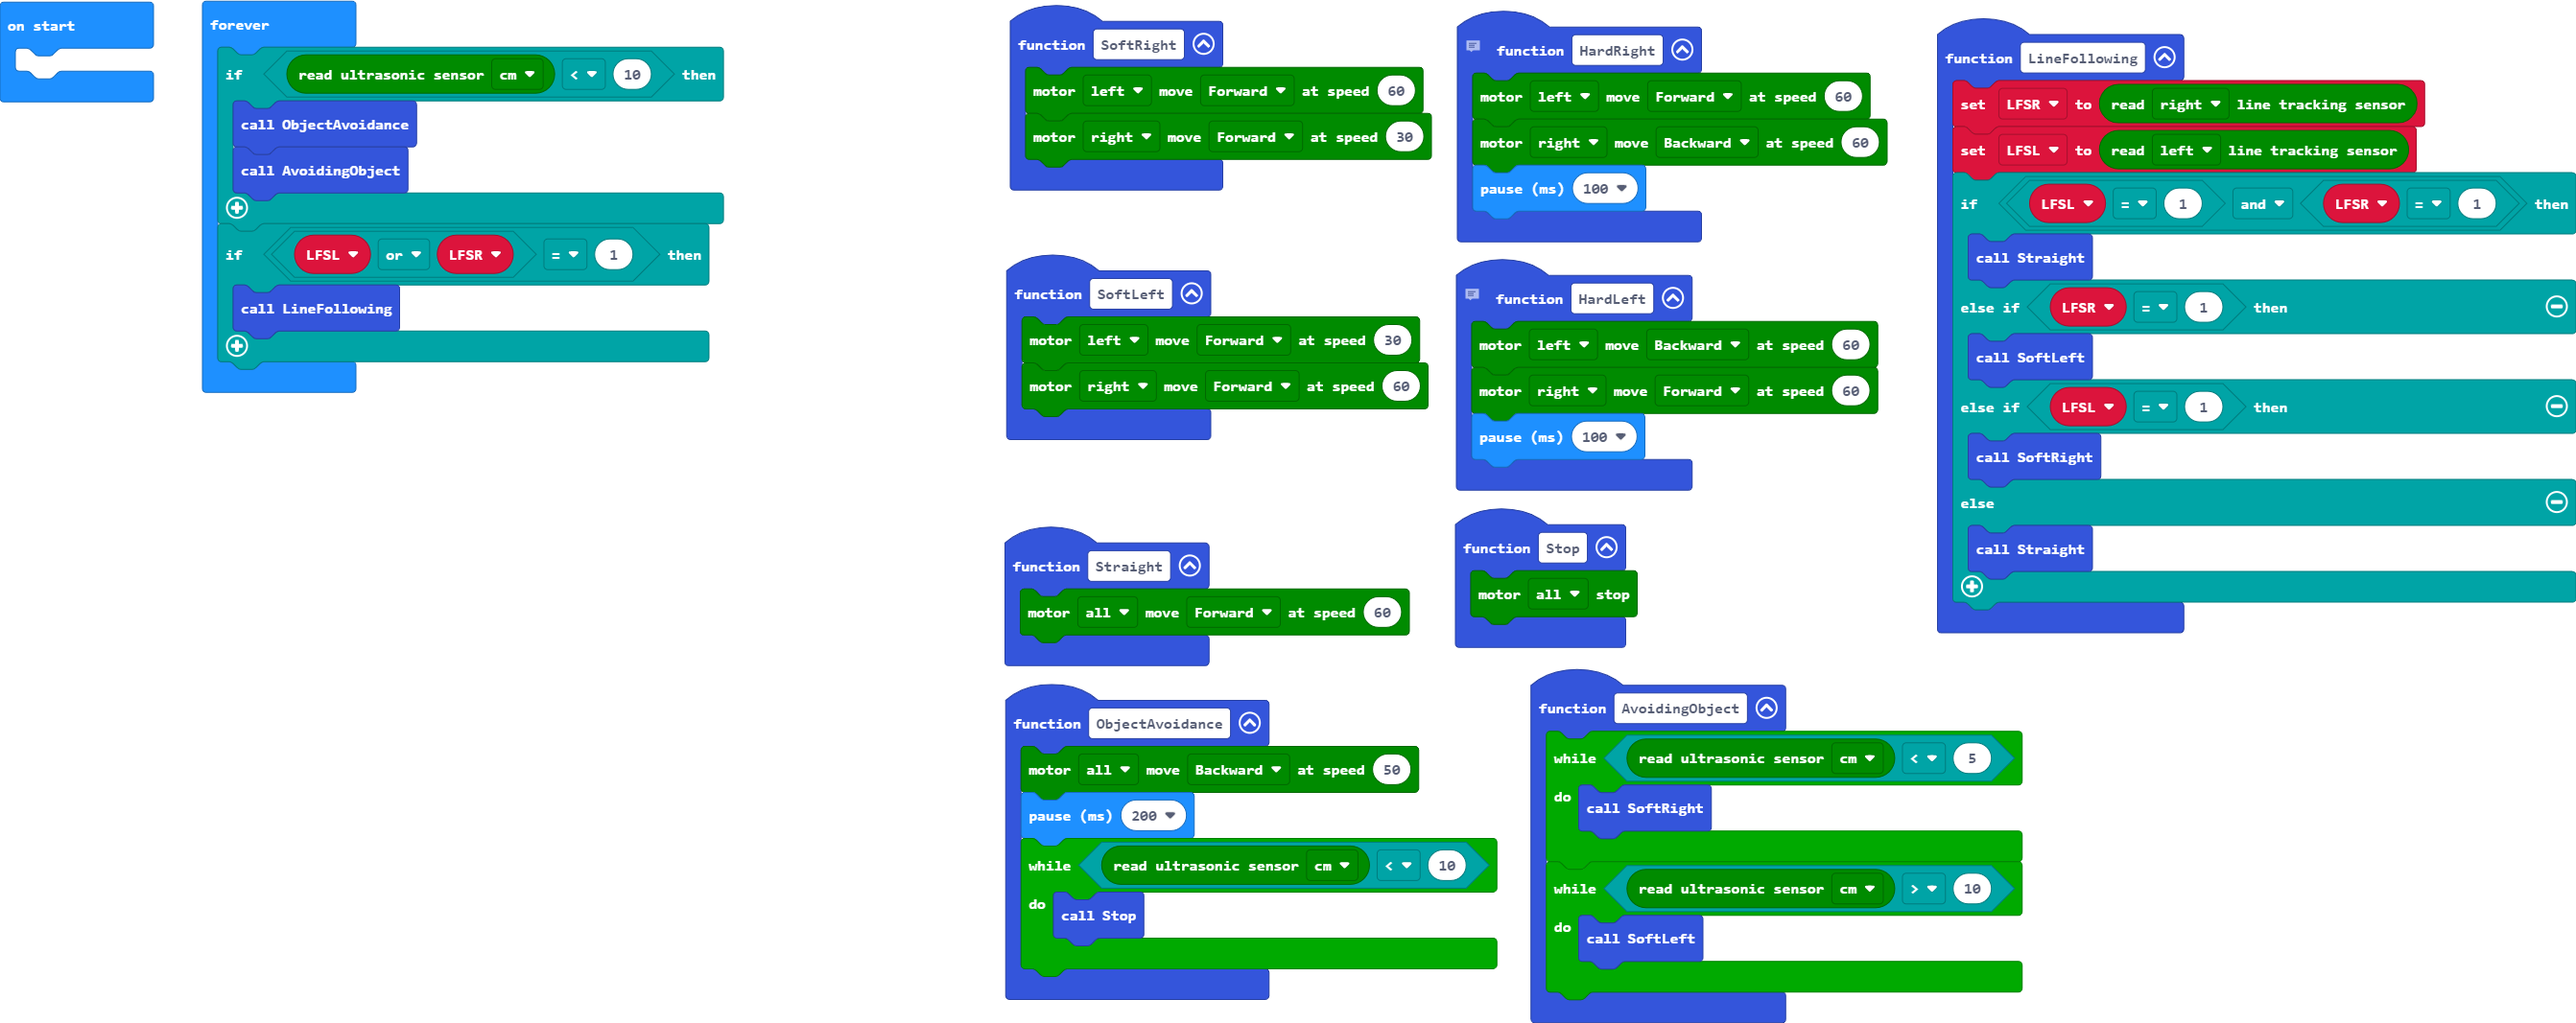
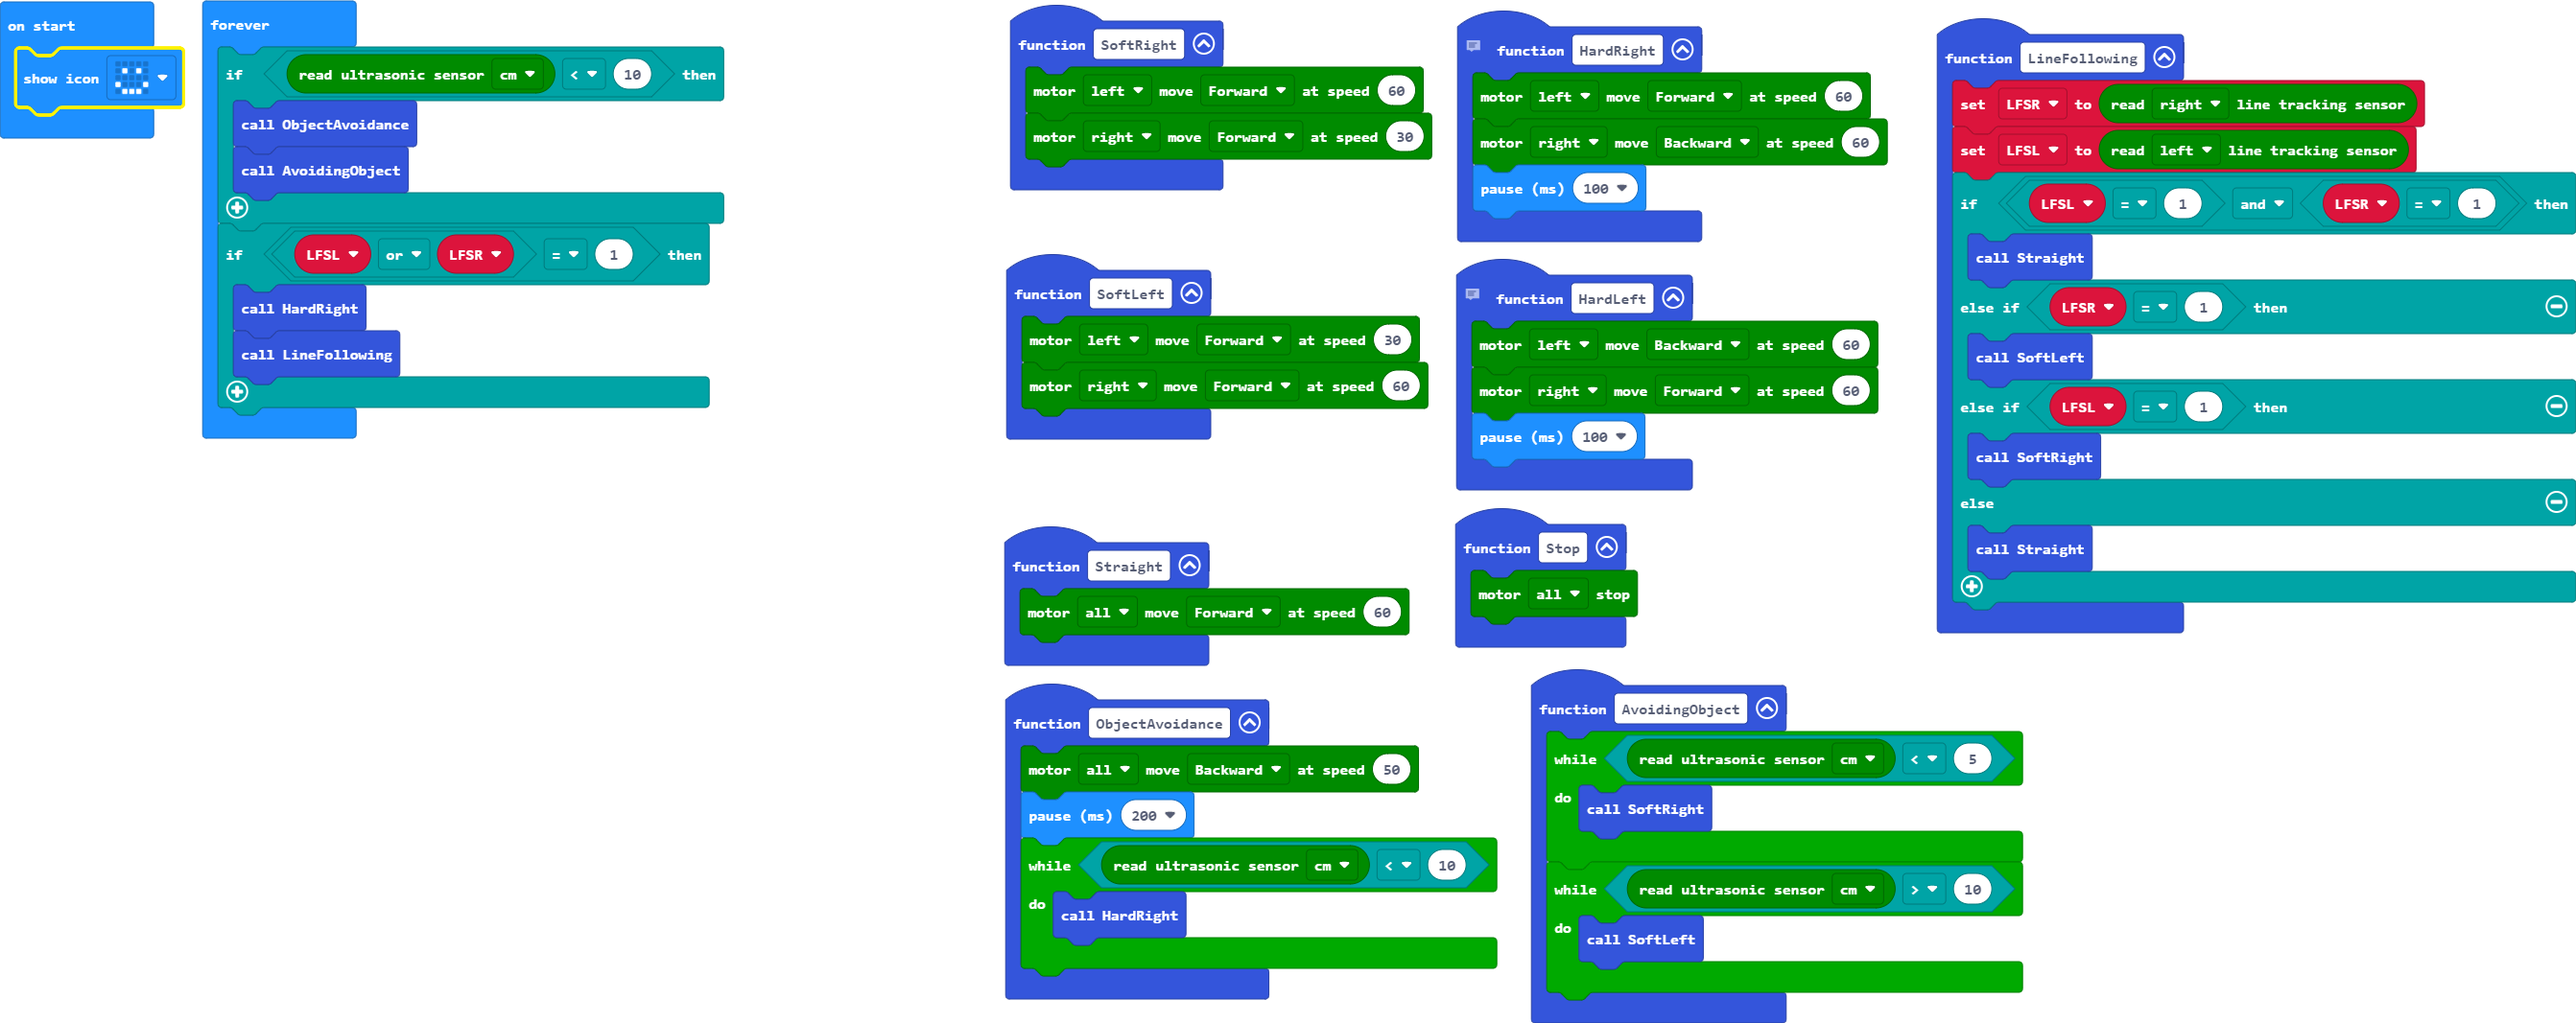
Update main.blocks, main.ts

diff --git a/main.ts b/main.ts
@@ -1,5 +1,3 @@
-let LFSR = 0
-let LFSL = 0
 // 90 Degree Turn
 function HardLeft () {
     maqueen.motorRun(maqueen.Motors.M1, maqueen.Dir.CCW, 60)
@@ -37,7 +35,7 @@ function ObjectAvoidance () {
     maqueen.motorRun(maqueen.Motors.All, maqueen.Dir.CCW, 50)
     basic.pause(200)
     while (maqueen.Ultrasonic(PingUnit.Centimeters) < 10) {
-        Stop()
+        HardRight()
     }
 }
 function Straight () {
@@ -54,12 +52,16 @@ function SoftLeft () {
     maqueen.motorRun(maqueen.Motors.M1, maqueen.Dir.CW, 30)
     maqueen.motorRun(maqueen.Motors.M2, maqueen.Dir.CW, 60)
 }
+let LFSL = 0
+let LFSR = 0
+basic.showIcon(IconNames.Happy)
 basic.forever(function () {
     if (maqueen.Ultrasonic(PingUnit.Centimeters) < 10) {
         ObjectAvoidance()
         AvoidingObject()
     }
     if ((LFSL || LFSR) == 1) {
+        HardRight()
         LineFollowing()
     }
 })
